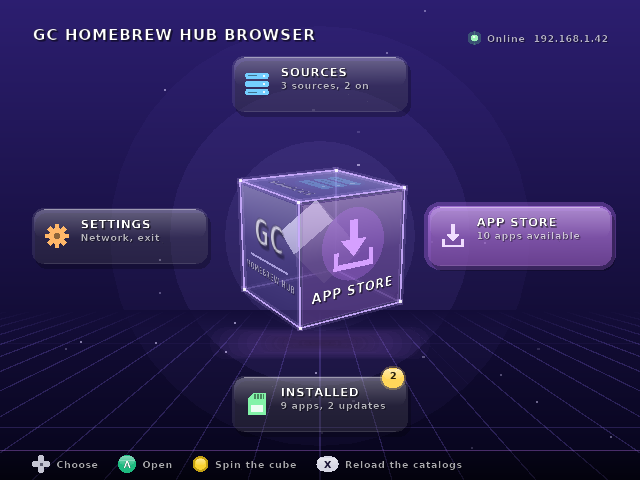
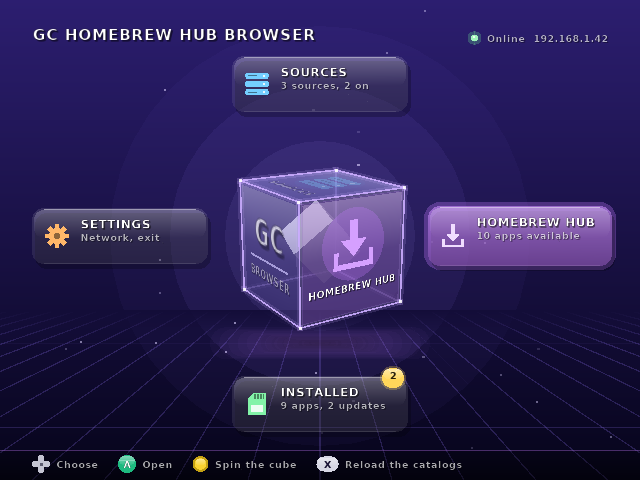
Call the store section Homebrew Hub instead of App store
The tile, the cube face and the section header now say HOMEBREW HUB; the
cube's front face reads GC BROWSER so the name is not shown twice.

Claude-Session: https://claude.ai/code/session_01KuH6ZFTJvZgdqVubHnVwGB

diff --git a/source/menu.c b/source/menu.c
@@ -17,7 +17,7 @@ static const struct { const char *label; Screen screen; float x, y; int face, ic
     { "SOURCES",   SCR_SOURCES,   320, 84,  CUBE_TOP,    ICON_SOURCES,   C_SOURCES },
     { "INSTALLED", SCR_INSTALLED, 320, 404, CUBE_BOTTOM, ICON_INSTALLED, C_INSTALLED },
     { "SETTINGS",  SCR_SETTINGS,  120, 236, CUBE_LEFT,   ICON_SETTINGS,  C_SETTINGS },
-    { "APP STORE", SCR_STORE,     520, 236, CUBE_RIGHT,  ICON_STORE,     C_STORE },
+    { "HOMEBREW HUB", SCR_STORE,     520, 236, CUBE_RIGHT,  ICON_STORE,     C_STORE },
 };
 /* the turn that shows a section's face three-quarters on, and square on */
 static const float face_rx[4] = { 62, -62, 14, 14 }, face_ry[4] = { -20, -20, 62, -62 };
@@ -96,7 +96,7 @@ static void face_draw(int face, float f, void *user) {
     }
     font_draw_center(50, 16, fit("GC", 70, 1.6f), ui_alpha(C_TEXT, f), "GC");
     gfx_rect(18, 60, 64, 2, ui_alpha(C_CUBE_EDGE, f));
-    font_draw_center(50, 66, fit("HOMEBREW HUB", 84, 0.6f), ui_alpha(C_TEXT_DIM, f), "HOMEBREW HUB");
+    font_draw_center(50, 66, fit("BROWSER", 84, 0.6f), ui_alpha(C_TEXT_DIM, f), "BROWSER");
 }
 
 void menu_draw(void) {
@@ -173,7 +173,7 @@ void menu_draw(void) {
         ui_glass(x, y, w, ht, 12, ui_mix(RGBA(255, 255, 255, 30), RGBA(ac.r, ac.g, ac.b, 150), k), tiles_a);
         ui_icon(tiles[i].icon, x + 25, y + ht / 2, 24,
                 ui_alpha(ui_mix(ac, RGB(255, 255, 255), 0.25f + 0.5f * k), tiles_a));
-        font_draw_clip(x + 48, y + 8, FS_BODY, ui_alpha(C_TEXT, tiles_a), tiles[i].label, w - 56);
+        font_draw_clip(x + 48, y + 8, fit(tiles[i].label, w - 56, FS_BODY), ui_alpha(C_TEXT, tiles_a), tiles[i].label, w - 56);
         char sub[64];
         tile_text(i, sub, sizeof sub);
         font_draw_clip(x + 48, y + 8 + font_height(FS_BODY), FS_SMALL, ui_alpha(C_TEXT_DIM, tiles_a), sub, w - 56);

diff --git a/source/screens.c b/source/screens.c
@@ -1,4 +1,4 @@
-/* screens.c - Sources, Installed, App store, Settings and the app details page. */
+/* screens.c - Sources, Installed, Homebrew Hub, Settings and the app details page. */
 #include "screens.h"
 #include "ui.h"
 #include "osk.h"
@@ -416,7 +416,7 @@ static void installed_draw(void) {
     ui_panel(x, py, w, ph);
     if (!inst_nitems) {
         font_draw_center(SCREEN_W / 2, py + ph / 2 - 10, FS_BODY, C_TEXT_DIM,
-                         updates_only ? "Everything is up to date." : "No apps in sd:/apps yet. Visit the App store.");
+                         updates_only ? "Everything is up to date." : "No apps in sd:/apps yet. Visit the Homebrew Hub.");
     } else {
         Installed *in = catalog_installed(inst_items[ls_inst.sel]);
         App *a = in->app >= 0 ? catalog_app(in->app) : NULL;
@@ -437,7 +437,7 @@ static void installed_draw(void) {
                            : "A  Details    Y  Updates only    X  Reload    B  Back");
 }
 
-/* ---- app store ---- */
+/* ---- homebrew hub (the store) ---- */
 
 static int storescr_update(u32 p) {
     build_store();
@@ -452,7 +452,7 @@ static int storescr_update(u32 p) {
 
 static void storescr_draw(void) {
     build_store();
-    ui_header("APP STORE", online_text());
+    ui_header("HOMEBREW HUB", online_text());
     ui_busy_banner();
     float x = UI_LEFT, w = UI_RIGHT - UI_LEFT;
     /* category strip (the busy banner takes its place while the worker runs) */

diff --git a/tools/preview/preview.c b/tools/preview/preview.c
@@ -173,7 +173,7 @@ int main(int argc, char **argv) {
     make_card();
     menu_reset();
 
-    wait(60);                    shot("01-menu-app-store");
+    wait(60);                    shot("01-menu-homebrew-hub");
     press(BTN_UP); wait(40);     shot("02-menu-sources");
     press(BTN_LEFT); wait(40);   shot("03-menu-settings");
     press(BTN_DOWN); wait(30);
@@ -185,7 +185,7 @@ int main(int argc, char **argv) {
     wait(30);                    shot("07-installed");
     press(BTN_RIGHT); press(BTN_RIGHT); wait(20); shot("08-installed-update");
     press(BTN_B); wait(4);       shot("09-back-to-cube");
-    press(BTN_RIGHT); wait(20); press(BTN_A); wait(40); shot("10-app-store");
+    press(BTN_RIGHT); wait(20); press(BTN_A); wait(40); shot("10-homebrew-hub");
     press(BTN_DOWN); press(BTN_DOWN); press(BTN_A); wait(40); shot("11-details");
     busy = true; step_text = "Downloading"; job = "Flashcube"; progress = 0.62f;
     wait(2);                     shot("12-details-installing");

diff --git a/README.md b/README.md
@@ -42,7 +42,7 @@ work offline).
 |---|---|
 | Up | **Sources** (blue): the catalogs apps come from. A switches one on or off, X adds one (on-screen keyboard), Y removes one you added, Start reloads them. |
 | Down | **Installed** (green): everything in `sd:/apps`, as a grid of blocks like the memory card screen. A opens an app (start, update, reinstall, remove). Y shows only apps with an update; there, A asks to install it. |
-| Right | **App store** (violet): the apps the sources list. Left/Right pick a category, A opens the details page with Install. |
+| Right | **Homebrew Hub** (violet): the apps the sources list. Left/Right pick a category, A opens the details page with Install. |
 | Left | **Settings** (orange): load the catalogs at start, certificate checking, what leaving does, and a Leave entry. |
 
 Press a direction twice (or a direction then A) to open a section; the cube
@@ -53,7 +53,7 @@ freely (it springs back when you let go). X on the cube reloads the catalogs.
 | | |
 |---|---|
 | ![The main menu](docs/screenshots/menu.png) | ![Installed](docs/screenshots/installed.png) |
-| ![App store](docs/screenshots/app-store.png) | ![Sources](docs/screenshots/sources.png) |
+| ![Homebrew Hub](docs/screenshots/homebrew-hub.png) | ![Sources](docs/screenshots/sources.png) |
 
 These are renders from `make preview` (below), with a stand-in font; on the
 console the text is the IPL font.

diff --git a/HANDOFF.md b/HANDOFF.md
@@ -68,13 +68,13 @@ The owner asked for the console's own menu aesthetic. What that became:
   faces darker, a solid core spinning inside, near faces with a gloss and
   decals drawn on them with the normal 2D calls (`CubeFaceFn`, face units
   0..100), glowing edges and corner pixels. Sections sit on faces: top =
-  Sources, bottom = Installed, left = Settings, right = App store, front and
-  back = "GC HOMEBREW HUB". The D-pad turns that face three-quarters on,
+  Sources, bottom = Installed, left = Settings, right = Homebrew Hub (the store), front
+  and back = "GC BROWSER". The D-pad turns that face three-quarters on,
   the Control Stick leans the cube live, the C-stick spins it and it springs
   back, opening flies square into the face (18 frames) and coming back zooms
   out of it. Indigo background with a floor grid and drifting sparks.
 - Sections: a dark grid with pulsing "pixel" crossings and a scan line, each
-  section in its own neon accent (Sources blue, Installed green, App store
+  section in its own neon accent (Sources blue, Installed green, Homebrew Hub
   violet, Settings orange; `C_SOURCES` etc. in `ui.h`, `ui_set_accent`).
   Panels, rows, tags, toasts, dialogs and keyboard are glossy translucent
   glass (`ui_glass`). Footers draw the controller's buttons (green A, red B,
